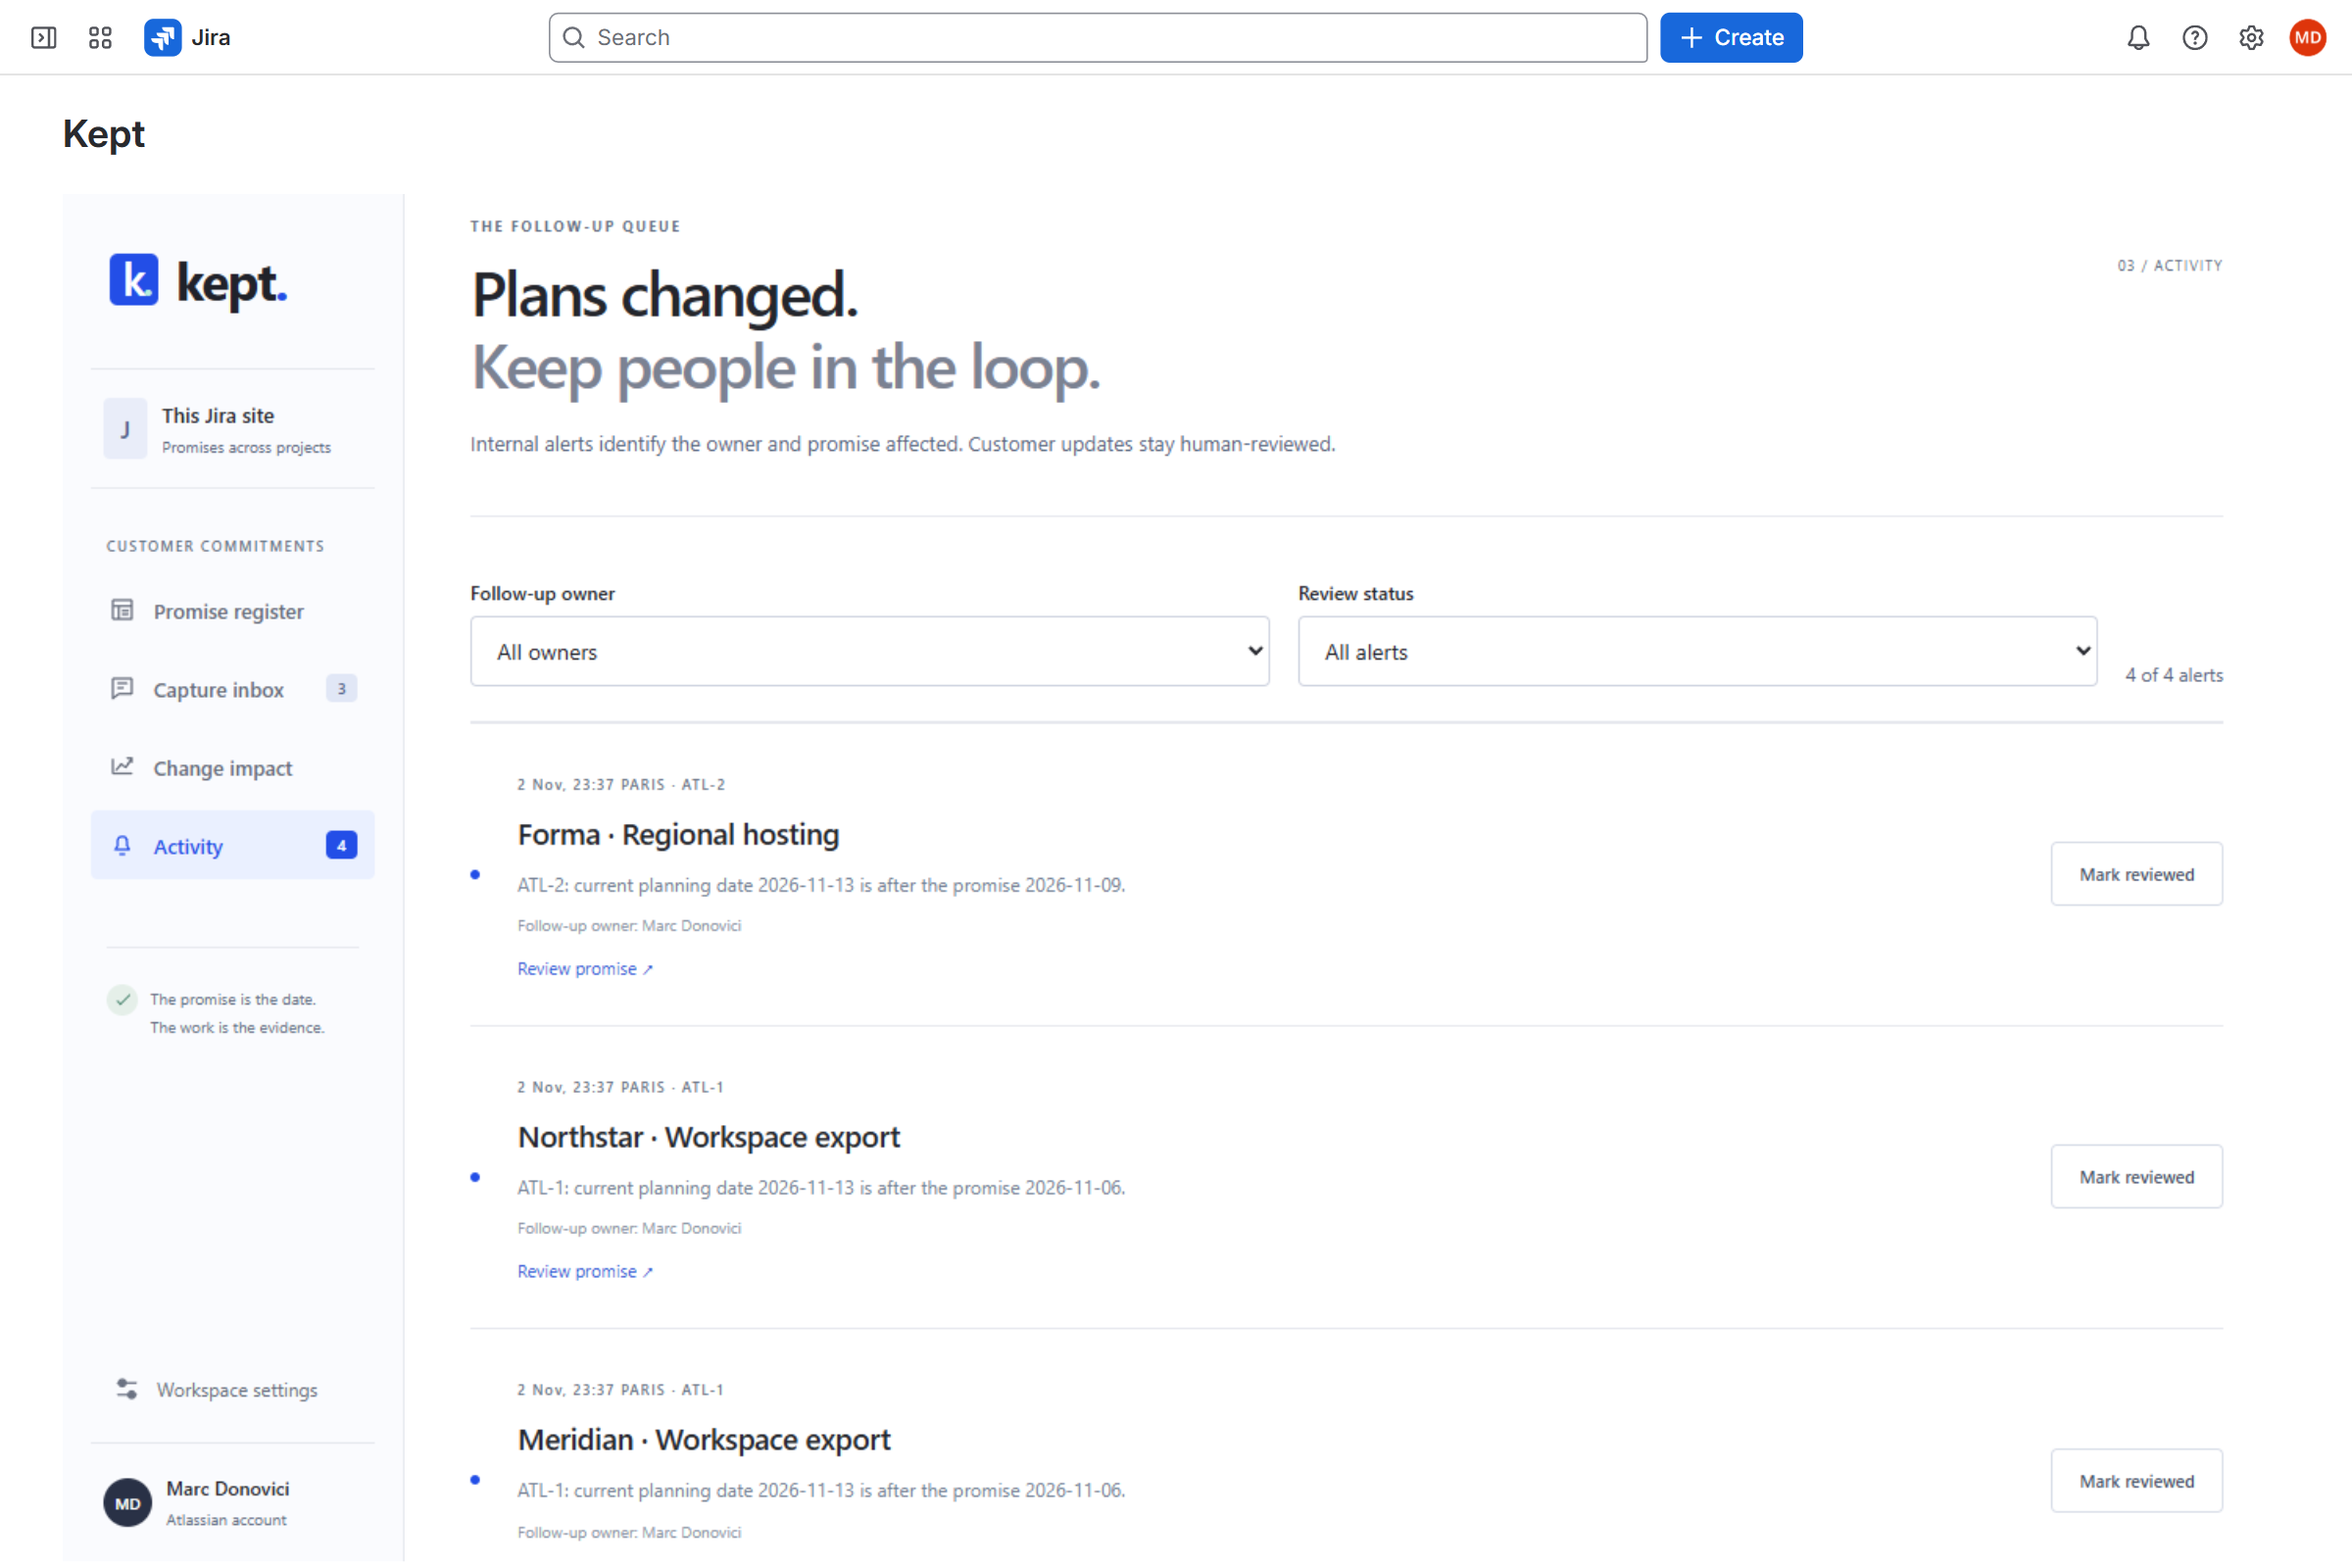
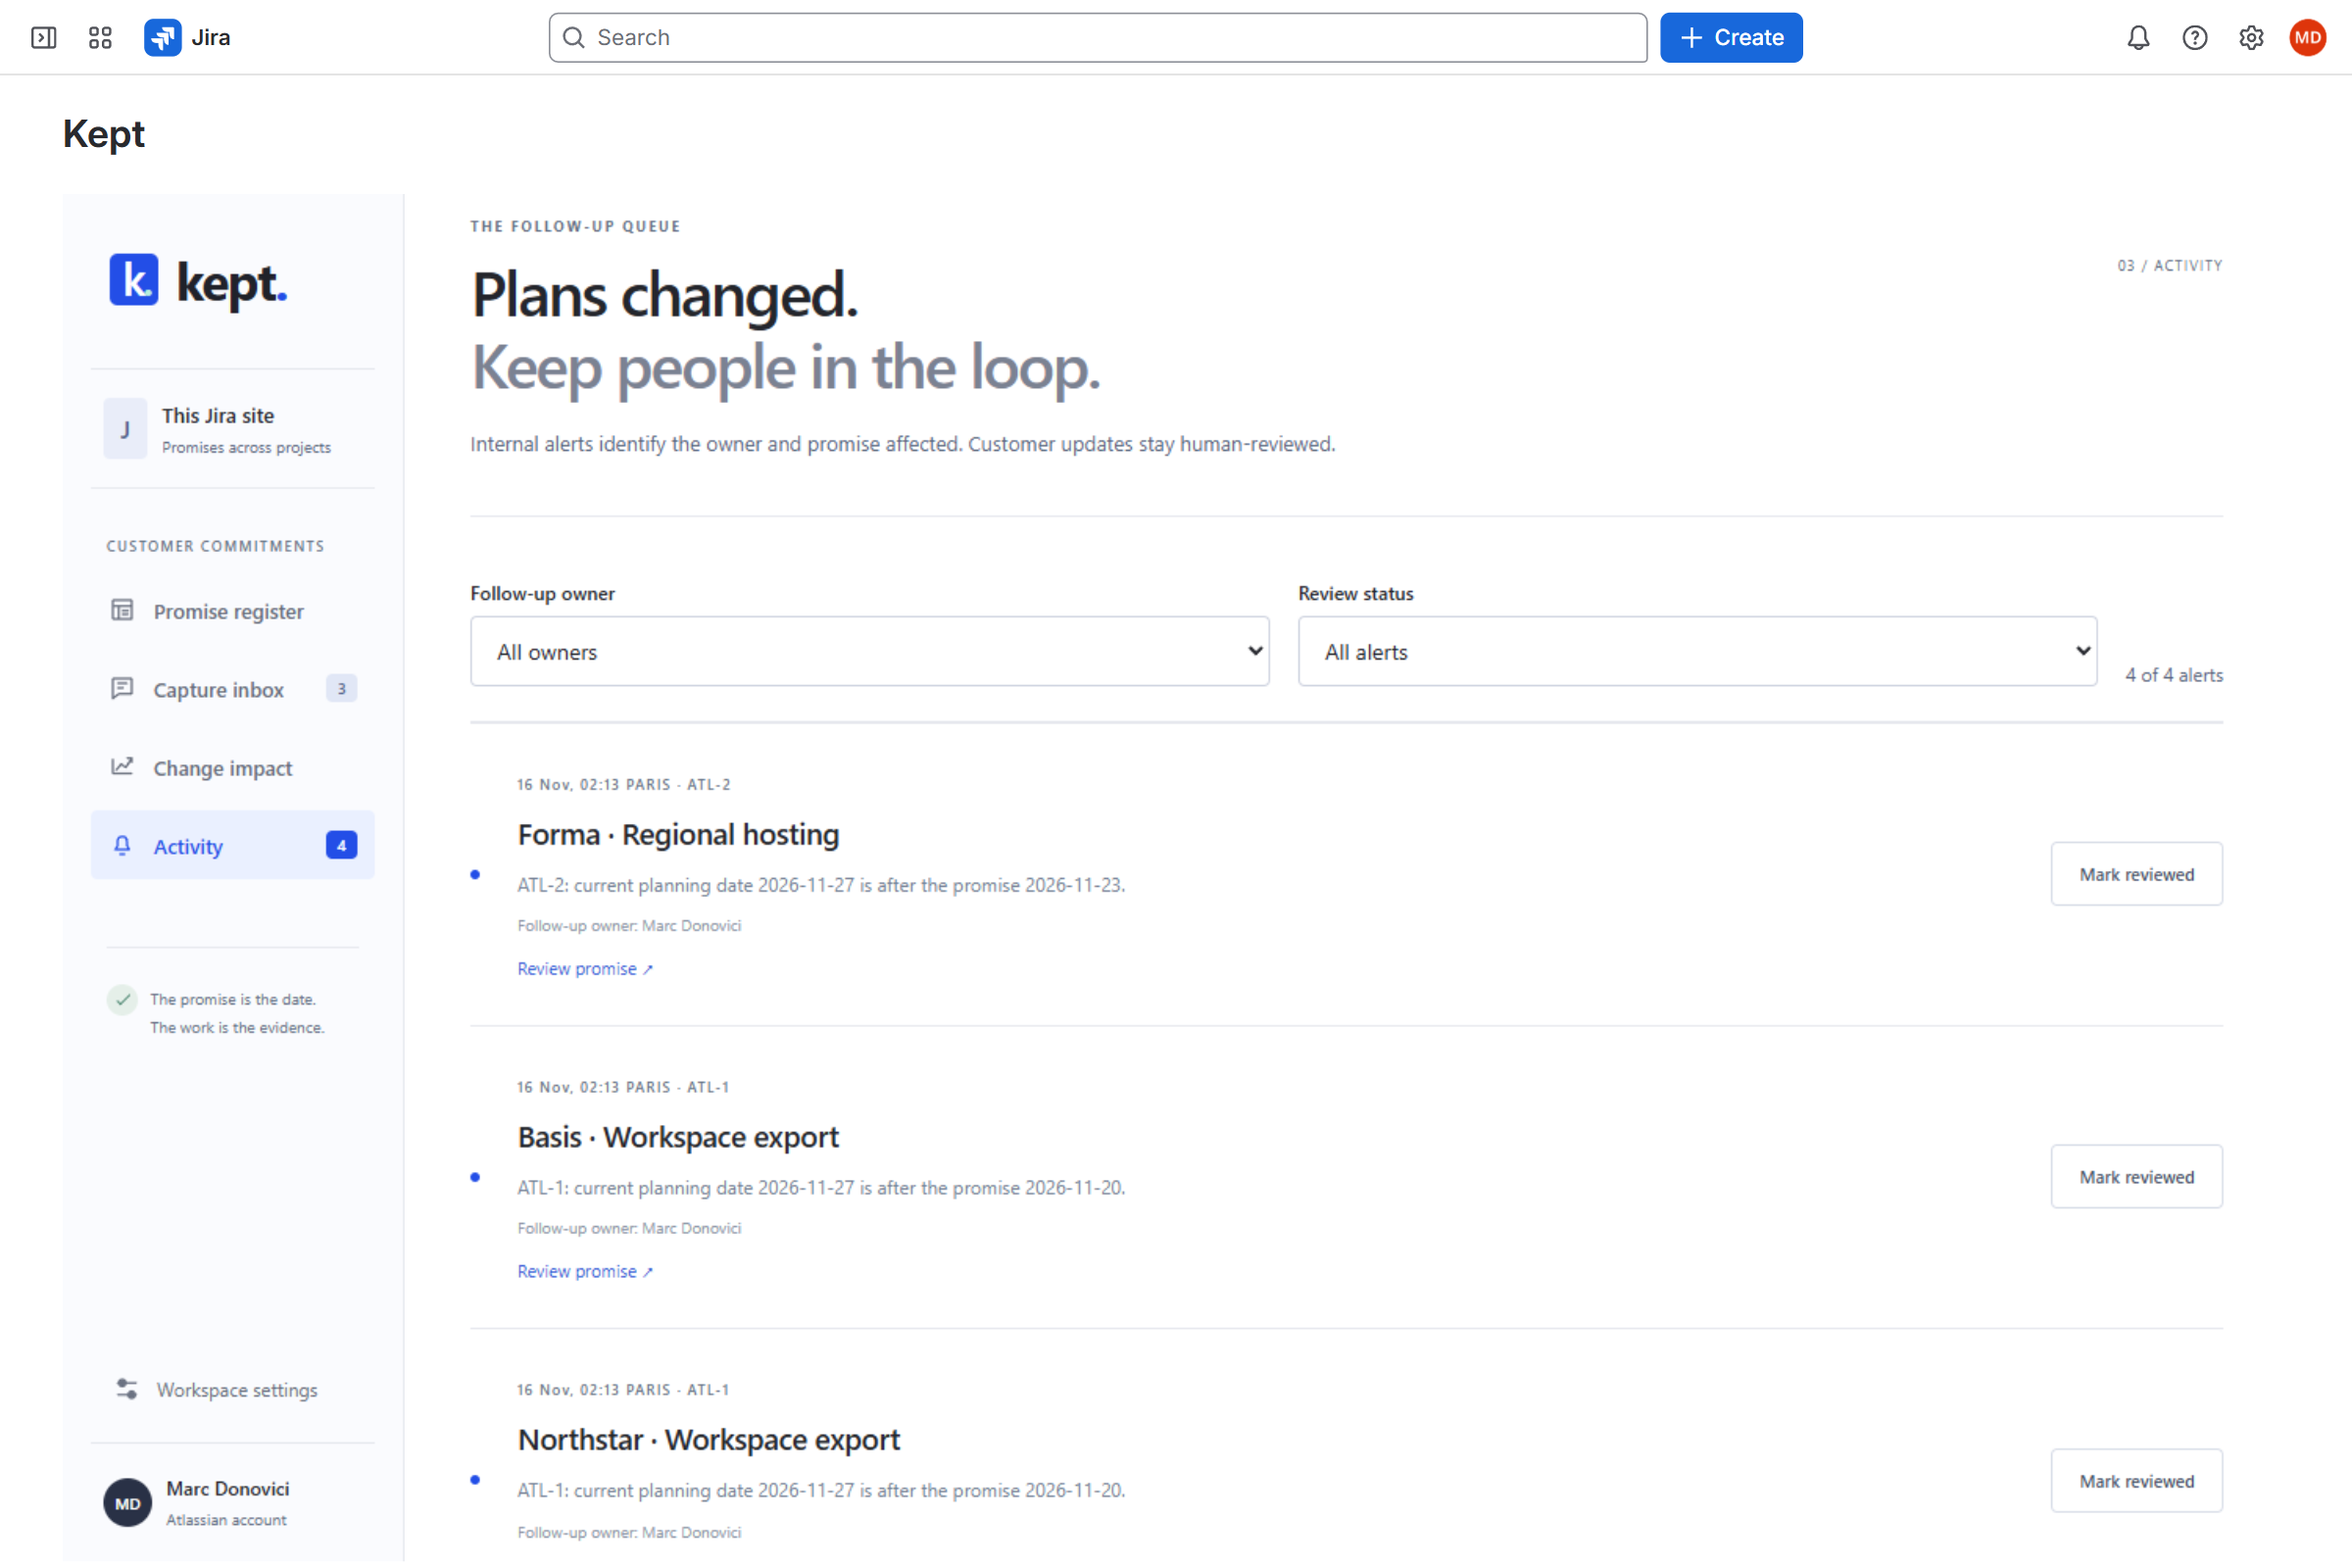
Live screenshots and timings, 16 November

Changed region(s): [[0.2188, 0.875, 0.375, 0.9375], [0.2188, 0.6875, 0.375, 0.75]]

diff --git a/README.md b/README.md
@@ -2,7 +2,7 @@
 
 ![The Kept promise register in Jira: eight customer promises, their states, the original words and the work behind them](docs/images/promise-register.png)
 
-[![CI](https://github.com/Marc-Dvci/kept/actions/workflows/ci.yml/badge.svg)](https://github.com/Marc-Dvci/kept/actions/workflows/ci.yml) ![Unit tests](https://img.shields.io/badge/unit_tests-129_passing-27735c) ![Cases](https://img.shields.io/badge/forecast_cases-36%2F36-27735c) ![Coverage](https://img.shields.io/badge/decision_core_coverage-92%25_lines-27735c) ![Licence](https://img.shields.io/badge/licence-MIT-24262c) ![Forge](https://img.shields.io/badge/Atlassian-Forge-0052CC)
+[![CI](https://github.com/Marc-Dvci/kept/actions/workflows/ci.yml/badge.svg)](https://github.com/Marc-Dvci/kept/actions/workflows/ci.yml) ![Unit tests](https://img.shields.io/badge/unit_tests-131_passing-27735c) ![Cases](https://img.shields.io/badge/forecast_cases-36%2F36-27735c) ![Coverage](https://img.shields.io/badge/decision_core_coverage-92%25_lines-27735c) ![Licence](https://img.shields.io/badge/licence-MIT-24262c) ![Forge](https://img.shields.io/badge/Atlassian-Forge-0052CC)
 
 **Kept turns the dates that support agents promise in Jira Service Management replies into tracked commitments,
 ties each one to the Jira work and release that must deliver it, and alerts the owner when a release moves, so the
@@ -17,7 +17,7 @@ each customer promise all three.
 | Track | Codegeist 2026 · Apps for Business Teams |
 | Bonus | Best Teamwork Graph integration |
 | Built with | Forge (Custom UI, resolvers, triggers, KVS custom entities, `graph:connector`), Jira Service Management, Jira, Teamwork Graph, TypeScript, React, Temporal |
-| Headline result | On the live site, moving the Atlas 2.8 release date in Jira recorded four owner alerts in Kept within 22 s; confirming a promise from a real JSM reply takes 5.0 s; 36 of 36 labelled forecast cases |
+| Headline result | On the live site, moving the Atlas 2.8 release date in Jira recorded four owner alerts in Kept within 21 s; confirming a promise from a real JSM reply takes 5.0 s; 36 of 36 labelled forecast cases |
 
 ## For judges
 
@@ -58,11 +58,11 @@ Full steps: [docs/SETUP.md](docs/SETUP.md).
 
 | The reply in JSM | Capture inbox | Confirm the promise |
 |---|---|---|
-| ![A public agent reply in JSM promising the workspace export by 6 November 2026, tracked in ATL-1](docs/images/public-reply-in-jsm.png) | ![Proposals from public JSM replies; a release name or a quarter is flagged for review](docs/images/capture-inbox.png) | ![The agent confirms customer, owner, agreed date, timezone and Jira work](docs/images/confirm-promise.png) |
+| ![A public agent reply in JSM promising the workspace export by 20 November 2026, tracked in ATL-1](docs/images/public-reply-in-jsm.png) | ![Proposals from public JSM replies; a release name or a quarter is flagged for review](docs/images/capture-inbox.png) | ![The agent confirms customer, owner, agreed date, timezone and Jira work](docs/images/confirm-promise.png) |
 
 | Change impact | Owner alerts after the Jira move | On the work item |
 |---|---|---|
-| ![Four promises newly at risk before Atlas 2.8 moves a week](docs/images/change-impact.png) | ![Four owner alerts recorded in Kept after Atlas 2.8 moved to 13 November](docs/images/owner-alerts.png) | ![The Kept panel on ATL-1: 3 customer promises depend on ATL-1](docs/images/issue-panel.png) |
+| ![Four promises newly at risk before Atlas 2.8 moves a week](docs/images/change-impact.png) | ![Four owner alerts recorded in Kept after Atlas 2.8 moved to 27 November](docs/images/owner-alerts.png) | ![The Kept panel on ATL-1: 3 customer promises depend on ATL-1](docs/images/issue-panel.png) |
 
 | Delivery evidence | Teamwork Graph sync | Workspace settings |
 |---|---|---|
@@ -70,11 +70,11 @@ Full steps: [docs/SETUP.md](docs/SETUP.md).
 
 ## The problem
 
-![A support reply promises the workspace export by 6 November; Atlas 2.8 moves to 13 November, and nobody tells the customer](docs/images/problem.png)
+![A support reply promises the workspace export by 20 November; Atlas 2.8 moves to 27 November, and nobody tells the customer](docs/images/problem.png)
 
-A support agent answers a customer in Jira Service Management: "We will deliver the workspace export by 6
-November, tracked in ATL-1." Two days later, engineering moves the release that carries ATL-1 to 13 November. The
-release lives in Jira, the promise lives in a reply, and nothing connects them. The customer finds out on 6
+A support agent answers a customer in Jira Service Management: "We will deliver the workspace export by 20
+November, tracked in ATL-1." Two days later, engineering moves the release that carries ATL-1 to 27 November. The
+release lives in Jira, the promise lives in a reply, and nothing connects them. The customer finds out on 20
 November.
 
 Customers rarely hear first. In a Gartner survey of more than 6,000 customers, only 13% reported receiving any type
@@ -126,25 +126,25 @@ Code computes every proposal, state and alert. There is no model in the decision
 | Check | Result | Reproduce |
 |---|---|---|
 | Labelled forecast cases | 36/36: 24 written before the engine, 12 kept apart until it was complete | `npm run eval` |
-| Unit tests: capture, forecast, ledger, access, Jira adapter, events, graph, drafts | 129 passing, in random order | `npm test` |
+| Unit tests: capture, forecast, ledger, access, Jira adapter, events, graph, drafts | 131 passing, in random order | `npm test` |
 | Decision core coverage (`src/core`) | 91.6 % of lines, 86.3 % of branches | `npm run coverage` |
 | Browser workflows on the replay, with axe-core accessibility checks | 15 passing | `npm run test:browser` |
 | Type check, production build, Forge manifest validation | clean | `npm run audit` |
 
 ### Run live
 
-Production install on marc-dvci.atlassian.net, 2 November 2026: software project "Atlas" (ATL) and service project
+Production install on marc-dvci.atlassian.net, 16 November 2026: software project "Atlas" (ATL) and service project
 "Atlas Support" (SUP).
 
 | Action | Result | Time |
 |---|---|---|
-| Load the full demo | 8 confirmed promises across 6 organisations, 3 replies in the Capture inbox | 37.7 to 41.5 s |
-| Reset the demo | Demo promises and support requests deleted | 13.4 s |
-| Confirm a promise from a real JSM reply | Promise registered with its source, owner, date and work | 5.0 s |
+| Load the full demo | 8 confirmed promises across 6 organisations, 3 replies in the Capture inbox | 32.8 to 36.8 s |
+| Reset the demo | Demo promises and support requests deleted; the next load starts the scenario again | 14.4 to 15.9 s |
+| Confirm a promise from a real JSM reply | Promise registered with its source, owner, date and work | 5.0 to 6.0 s |
 | Preview a one-week move of Atlas 2.8 | 4 promises newly at risk, 5 customers in scope, 3 renewing within 60 days | |
-| Move Atlas 2.8 to 13 November in Jira | 4 owner alerts recorded in Kept | 13.5 to 21.9 s, including page reloads |
+| Move Atlas 2.8 from 20 to 27 November in Jira | 4 owner alerts recorded in Kept | 13.0 to 21.3 s, including page reloads |
 | Open the issue panel on ATL-1 | "3 customer promises depend on ATL-1" | |
-| Teamwork Graph sync | 8 demo promise documents accepted | 4.9 to 5.7 s |
+| Teamwork Graph sync | 8 demo promise documents accepted | 4.5 to 5.8 s |
 
 ![Kept in the Atlassian developer console: deployed to production, one installation, sharing on](docs/images/developer-console.png)
 

diff --git a/docs/SETUP.md b/docs/SETUP.md
@@ -25,8 +25,8 @@ are confirmed and three replies wait in the **Capture inbox**. The loader also f
 fields and adds the service project to the watched support projects.
 
 Forge resolvers stop at 25 seconds, so the loader works in steps: each call records what it created and the page
-calls again until the demo is complete. On the production site, loading the full demo took 37.7 to 41.5 s and
-**Reset the demo** 13.4 s.
+calls again until the demo is complete. On the production site, loading the full demo took 32.8 to 36.8 s and
+**Reset the demo** 14.4 to 15.9 s.
 
 **Reset the demo** removes the demo promises, including any you confirmed from a demo reply, and the demo support requests, so the scenario plays again from the start. Promises confirmed from your own service requests keep their source requests and delivery plans, and live inbox references stay. Atlas work items and releases stay; the next load restores their plans.
 

diff --git a/docs/SPEC.md b/docs/SPEC.md
@@ -61,7 +61,7 @@ storage and issue-change events. No customer message is sent by this app.
 
 The Atlas product team, six customer organisations, eight promises,
 five delivery work items and a support-capture inbox. The principal story moves
-the Atlas 2.8 plan from 6 to 13 November, surfaces the affected customers, and
+the Atlas 2.8 plan by one week, surfaces the affected customers, and
 records a reviewed delivery.
 
 ## Quality and boundaries
